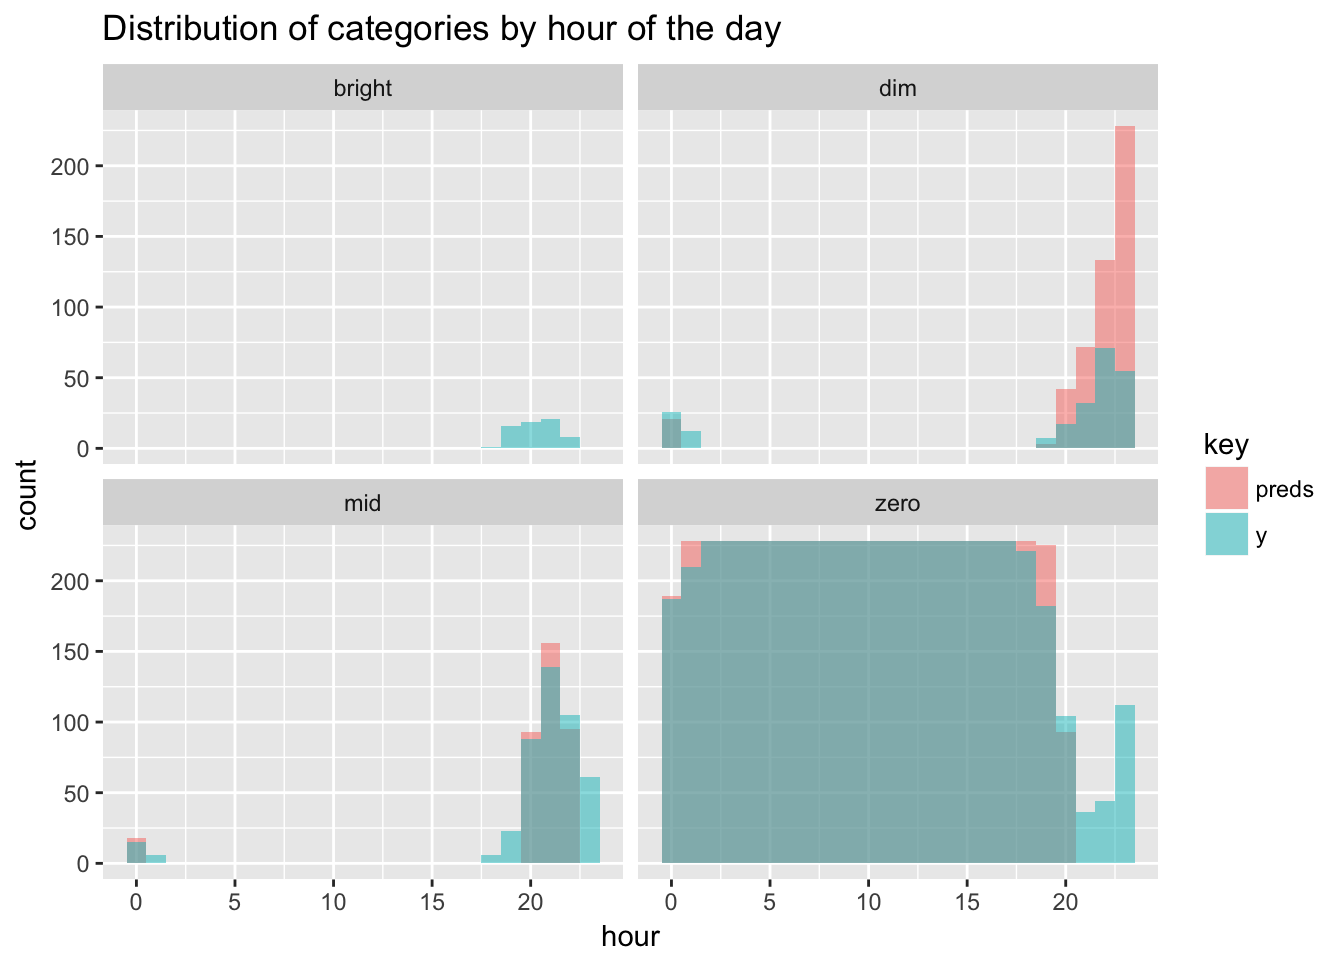
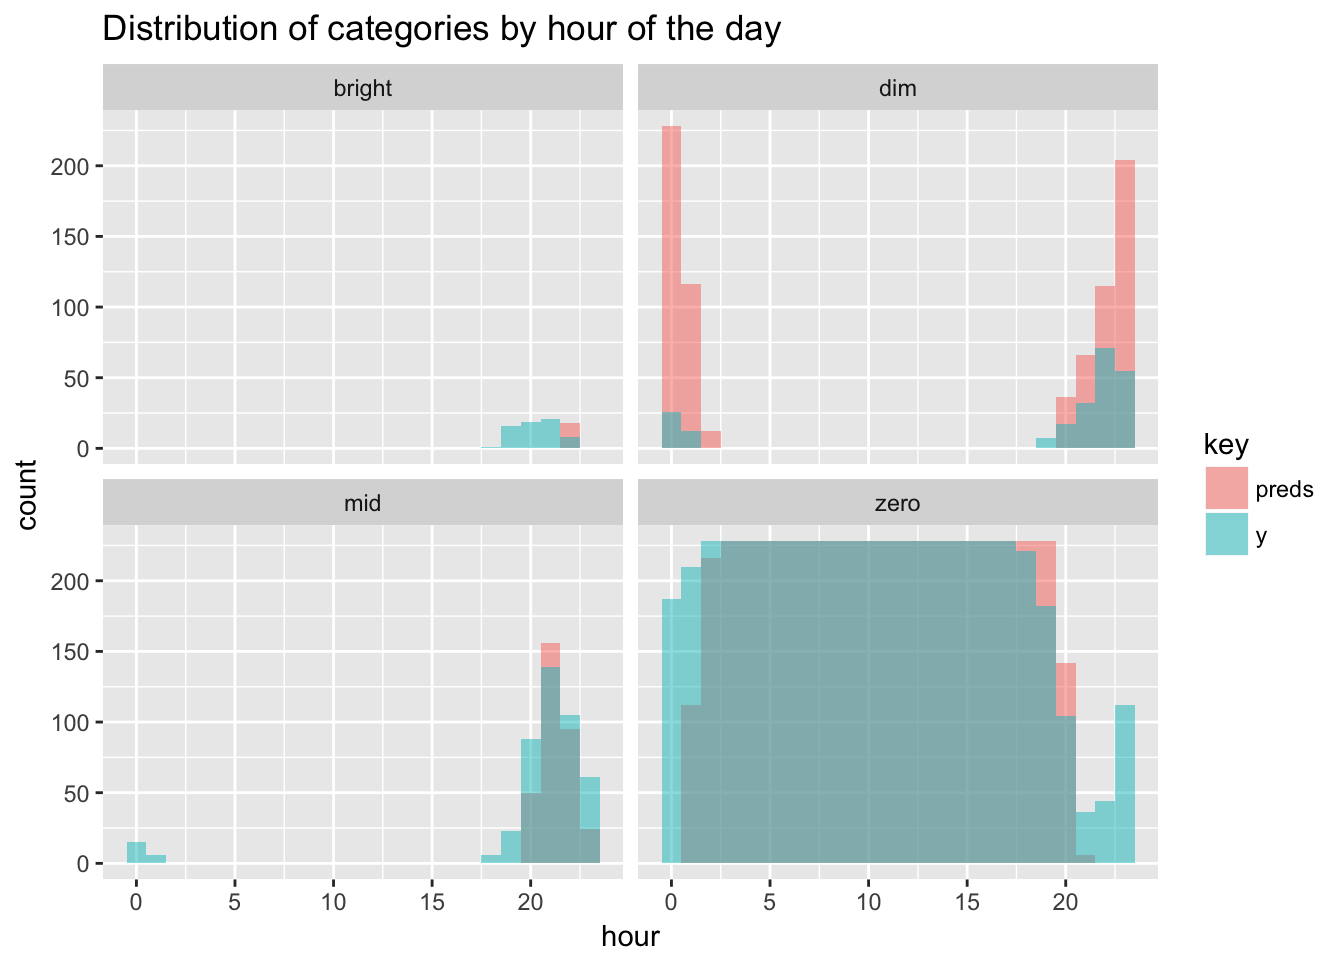
thumbnail test2

diff --git a/blog/self-learning-hue-lights/index.html b/blog/self-learning-hue-lights/index.html
@@ -44,11 +44,11 @@
 
 
     
-    <link rel="stylesheet" href="../../css/reset.css?t=1507447462">
-    <link rel="stylesheet" href="../../css/pygments.css?t=1507447462">
-    <link rel="stylesheet" href="../../css/main.css?t=1507447462">
+    <link rel="stylesheet" href="../../css/reset.css?t=1507448525">
+    <link rel="stylesheet" href="../../css/pygments.css?t=1507448525">
+    <link rel="stylesheet" href="../../css/main.css?t=1507448525">
     
-        <link rel="stylesheet" href="../../css/override.css?t=1507447462">
+        <link rel="stylesheet" href="../../css/override.css?t=1507448525">
     
 
 
@@ -278,10 +278,10 @@ gbmFit &lt;- train(y ~ ., data = training,
 table(preds, testing$y)</code></pre>
 <pre><code>##         
 ## preds     dim  mid bright zero
-##   dim      96  181     11  211
-##   mid      69  178     32   83
-##   bright    0    0      0    0
-##   zero     55   84     22 4450</code></pre>
+##   dim     107  186     15  469
+##   mid      80  151     23   71
+##   bright   11    6      0    1
+##   zero     22  100     27 4203</code></pre>
 <p>Most mistakes are made trying to classify bright and mid. The model gets 0 bright values right and only manages to do so correctly 14% of the time for mid. But when do errors happen? To dig a little deeper let’s look at the previous histogram of categories by hour again for the test set, but now with the predictions overlaid on top.</p>
 <p><img src="../../blog/2017/2017-05-14-hue_files/figure-html/unnamed-chunk-11-1.png" width="672" /></p>
 <p>Bright values were always going be hard to guess, but the model at least comes close in terms of hours, but off on the exact days. The majority of misclassification comes from overzealously predicting dim in the evening and around midnight, when it should really be either mid or zero. That looks like a workable scenario for me.</p>

diff --git a/blog/a-tidy-text-analysis-of-rick-and-morty/index.html b/blog/a-tidy-text-analysis-of-rick-and-morty/index.html
@@ -44,11 +44,11 @@
 
 
     
-    <link rel="stylesheet" href="../../css/reset.css?t=1507447462">
-    <link rel="stylesheet" href="../../css/pygments.css?t=1507447462">
-    <link rel="stylesheet" href="../../css/main.css?t=1507447462">
+    <link rel="stylesheet" href="../../css/reset.css?t=1507448525">
+    <link rel="stylesheet" href="../../css/pygments.css?t=1507448525">
+    <link rel="stylesheet" href="../../css/main.css?t=1507448525">
     
-        <link rel="stylesheet" href="../../css/override.css?t=1507447462">
+        <link rel="stylesheet" href="../../css/override.css?t=1507448525">
     
 
 

diff --git a/blog/analyzing-my-spotify-listening-history/index.html b/blog/analyzing-my-spotify-listening-history/index.html
@@ -44,11 +44,11 @@
 
 
     
-    <link rel="stylesheet" href="../../css/reset.css?t=1507447462">
-    <link rel="stylesheet" href="../../css/pygments.css?t=1507447462">
-    <link rel="stylesheet" href="../../css/main.css?t=1507447462">
+    <link rel="stylesheet" href="../../css/reset.css?t=1507448525">
+    <link rel="stylesheet" href="../../css/pygments.css?t=1507448525">
+    <link rel="stylesheet" href="../../css/main.css?t=1507448525">
     
-        <link rel="stylesheet" href="../../css/override.css?t=1507447462">
+        <link rel="stylesheet" href="../../css/override.css?t=1507448525">
     
 
 

diff --git a/blog/creating-a-spotify-playlist-using-luigi/index.html b/blog/creating-a-spotify-playlist-using-luigi/index.html
@@ -44,11 +44,11 @@
 
 
     
-    <link rel="stylesheet" href="../../css/reset.css?t=1507447462">
-    <link rel="stylesheet" href="../../css/pygments.css?t=1507447462">
-    <link rel="stylesheet" href="../../css/main.css?t=1507447462">
+    <link rel="stylesheet" href="../../css/reset.css?t=1507448525">
+    <link rel="stylesheet" href="../../css/pygments.css?t=1507448525">
+    <link rel="stylesheet" href="../../css/main.css?t=1507448525">
     
-        <link rel="stylesheet" href="../../css/override.css?t=1507447462">
+        <link rel="stylesheet" href="../../css/override.css?t=1507448525">
     
 
 

diff --git a/blog/starting-a-blogdown/index.html b/blog/starting-a-blogdown/index.html
@@ -44,11 +44,11 @@
 
 
     
-    <link rel="stylesheet" href="../../css/reset.css?t=1507447462">
-    <link rel="stylesheet" href="../../css/pygments.css?t=1507447462">
-    <link rel="stylesheet" href="../../css/main.css?t=1507447462">
+    <link rel="stylesheet" href="../../css/reset.css?t=1507448525">
+    <link rel="stylesheet" href="../../css/pygments.css?t=1507448525">
+    <link rel="stylesheet" href="../../css/main.css?t=1507448525">
     
-        <link rel="stylesheet" href="../../css/override.css?t=1507447462">
+        <link rel="stylesheet" href="../../css/override.css?t=1507448525">
     
 
 

diff --git a/categories/r/index.html b/categories/r/index.html
@@ -44,11 +44,11 @@
 
 
     
-    <link rel="stylesheet" href="../../css/reset.css?t=1507447462">
-    <link rel="stylesheet" href="../../css/pygments.css?t=1507447462">
-    <link rel="stylesheet" href="../../css/main.css?t=1507447462">
+    <link rel="stylesheet" href="../../css/reset.css?t=1507448525">
+    <link rel="stylesheet" href="../../css/pygments.css?t=1507448525">
+    <link rel="stylesheet" href="../../css/main.css?t=1507448525">
     
-        <link rel="stylesheet" href="../../css/override.css?t=1507447462">
+        <link rel="stylesheet" href="../../css/override.css?t=1507448525">
     
 
 

diff --git a/tags/dplyr/index.html b/tags/dplyr/index.html
@@ -44,11 +44,11 @@
 
 
     
-    <link rel="stylesheet" href="../../css/reset.css?t=1507447462">
-    <link rel="stylesheet" href="../../css/pygments.css?t=1507447462">
-    <link rel="stylesheet" href="../../css/main.css?t=1507447462">
+    <link rel="stylesheet" href="../../css/reset.css?t=1507448525">
+    <link rel="stylesheet" href="../../css/pygments.css?t=1507448525">
+    <link rel="stylesheet" href="../../css/main.css?t=1507448525">
     
-        <link rel="stylesheet" href="../../css/override.css?t=1507447462">
+        <link rel="stylesheet" href="../../css/override.css?t=1507448525">
     
 
 

diff --git a/tags/ggplot/index.html b/tags/ggplot/index.html
@@ -44,11 +44,11 @@
 
 
     
-    <link rel="stylesheet" href="../../css/reset.css?t=1507447462">
-    <link rel="stylesheet" href="../../css/pygments.css?t=1507447462">
-    <link rel="stylesheet" href="../../css/main.css?t=1507447462">
+    <link rel="stylesheet" href="../../css/reset.css?t=1507448525">
+    <link rel="stylesheet" href="../../css/pygments.css?t=1507448525">
+    <link rel="stylesheet" href="../../css/main.css?t=1507448525">
     
-        <link rel="stylesheet" href="../../css/override.css?t=1507447462">
+        <link rel="stylesheet" href="../../css/override.css?t=1507448525">
     
 
 

diff --git a/tags/hue/index.html b/tags/hue/index.html
@@ -44,11 +44,11 @@
 
 
     
-    <link rel="stylesheet" href="../../css/reset.css?t=1507447462">
-    <link rel="stylesheet" href="../../css/pygments.css?t=1507447462">
-    <link rel="stylesheet" href="../../css/main.css?t=1507447462">
+    <link rel="stylesheet" href="../../css/reset.css?t=1507448525">
+    <link rel="stylesheet" href="../../css/pygments.css?t=1507448525">
+    <link rel="stylesheet" href="../../css/main.css?t=1507448525">
     
-        <link rel="stylesheet" href="../../css/override.css?t=1507447462">
+        <link rel="stylesheet" href="../../css/override.css?t=1507448525">
     
 
 

diff --git a/tags/luigi/index.html b/tags/luigi/index.html
@@ -44,11 +44,11 @@
 
 
     
-    <link rel="stylesheet" href="../../css/reset.css?t=1507447462">
-    <link rel="stylesheet" href="../../css/pygments.css?t=1507447462">
-    <link rel="stylesheet" href="../../css/main.css?t=1507447462">
+    <link rel="stylesheet" href="../../css/reset.css?t=1507448525">
+    <link rel="stylesheet" href="../../css/pygments.css?t=1507448525">
+    <link rel="stylesheet" href="../../css/main.css?t=1507448525">
     
-        <link rel="stylesheet" href="../../css/override.css?t=1507447462">
+        <link rel="stylesheet" href="../../css/override.css?t=1507448525">
     
 
 

diff --git a/tags/plot/index.html b/tags/plot/index.html
@@ -44,11 +44,11 @@
 
 
     
-    <link rel="stylesheet" href="../../css/reset.css?t=1507447462">
-    <link rel="stylesheet" href="../../css/pygments.css?t=1507447462">
-    <link rel="stylesheet" href="../../css/main.css?t=1507447462">
+    <link rel="stylesheet" href="../../css/reset.css?t=1507448525">
+    <link rel="stylesheet" href="../../css/pygments.css?t=1507448525">
+    <link rel="stylesheet" href="../../css/main.css?t=1507448525">
     
-        <link rel="stylesheet" href="../../css/override.css?t=1507447462">
+        <link rel="stylesheet" href="../../css/override.css?t=1507448525">
     
 
 

diff --git a/tags/purrr/index.html b/tags/purrr/index.html
@@ -44,11 +44,11 @@
 
 
     
-    <link rel="stylesheet" href="../../css/reset.css?t=1507447462">
-    <link rel="stylesheet" href="../../css/pygments.css?t=1507447462">
-    <link rel="stylesheet" href="../../css/main.css?t=1507447462">
+    <link rel="stylesheet" href="../../css/reset.css?t=1507448525">
+    <link rel="stylesheet" href="../../css/pygments.css?t=1507448525">
+    <link rel="stylesheet" href="../../css/main.css?t=1507448525">
     
-        <link rel="stylesheet" href="../../css/override.css?t=1507447462">
+        <link rel="stylesheet" href="../../css/override.css?t=1507448525">
     
 
 
